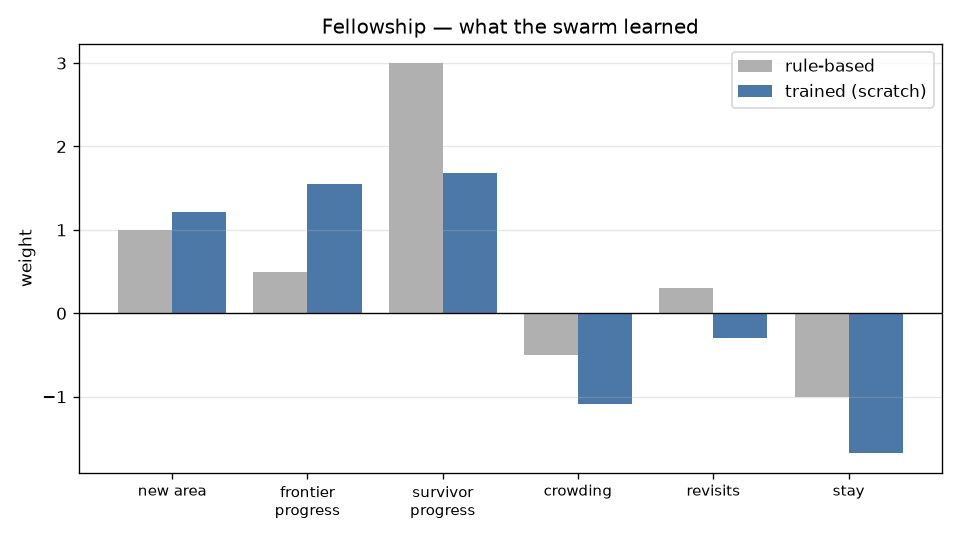
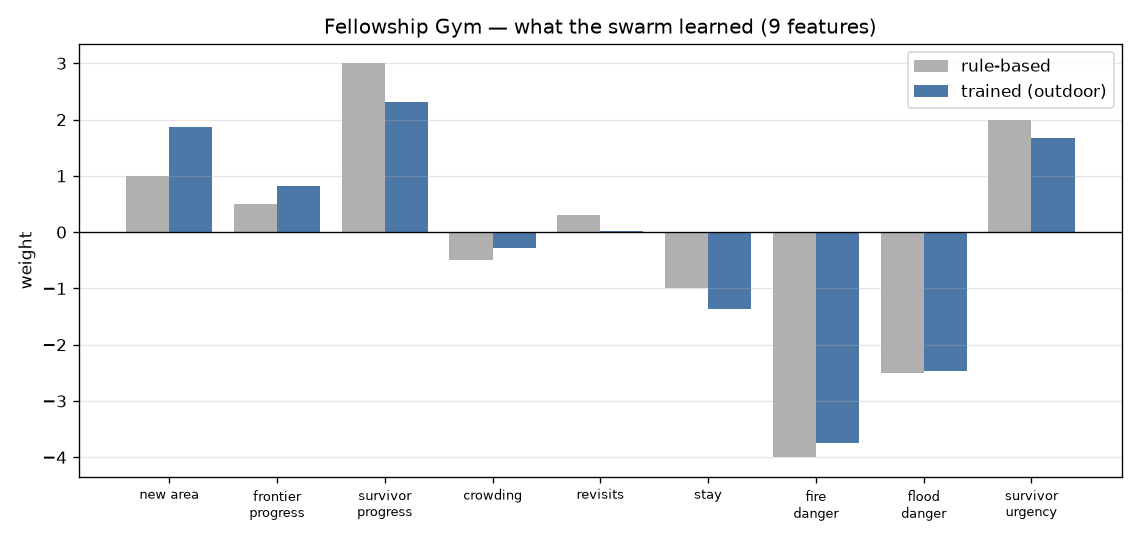
Fix weights chart: show all 9 features inc. fire/flood avoidance (was stale 6-feature scratch model)

Changed region(s): [[0.0, 0.0593, 1.0, 0.9778], [0.2812, 0.0296, 0.7812, 0.0889]]

diff --git a/render.py b/render.py
@@ -13,7 +13,8 @@ RESULTS = os.path.join(os.path.dirname(os.path.abspath(__file__)), "results")
 
 UNKNOWN, OPEN, BLOCKED = 0, 1, 2
 FEATURE_LABELS = ["new area", "frontier\nprogress", "survivor\nprogress",
-                  "crowding", "revisits", "stay"]
+                  "crowding", "revisits", "stay",
+                  "fire\ndanger", "flood\ndanger", "survivor\nurgency"]
 
 
 def _load(name):
@@ -83,21 +84,21 @@ def swarm_gif(kind: str, seed: int, path: str, best_label="scratch"):
     return path
 
 
-def weights_png(path: str, best_label="scratch"):
+def weights_png(path: str, best_label="outdoor"):
     import matplotlib
     matplotlib.use("Agg")
     import matplotlib.pyplot as plt
     learned = _load(best_label)
-    rule = policies.RULE_WEIGHTS
+    rule = np.asarray(policies.RULE_WEIGHTS, dtype=float)
     x = np.arange(len(FEATURE_LABELS))
-    fig, ax = plt.subplots(figsize=(8, 4.5))
+    fig, ax = plt.subplots(figsize=(9.5, 4.5))
     ax.bar(x - 0.2, rule, 0.4, label="rule-based", color="#B0B0B0")
     ax.bar(x + 0.2, learned, 0.4, label=f"trained ({best_label})", color="#4C78A8")
     ax.set_xticks(x)
-    ax.set_xticklabels(FEATURE_LABELS, fontsize=9)
+    ax.set_xticklabels(FEATURE_LABELS, fontsize=8)
     ax.axhline(0, color="black", lw=0.8)
     ax.set_ylabel("weight")
-    ax.set_title("Fellowship — what the swarm learned")
+    ax.set_title("Fellowship Gym — what the swarm learned (9 features)")
     ax.legend()
     ax.grid(axis="y", alpha=0.3)
     fig.tight_layout()
@@ -113,7 +114,7 @@ def main():
     if os.path.exists(meta):
         best = json.load(open(meta)).get("best", "scratch")
 
-    weights_png(os.path.join(RESULTS, "weights.png"), best)
+    weights_png(os.path.join(RESULTS, "weights.png"), "outdoor")
     print("weights.png done")
 
     # main hero GIF: a boston region
